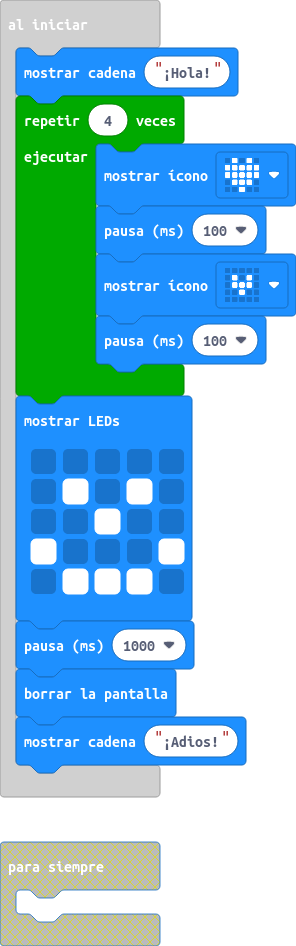
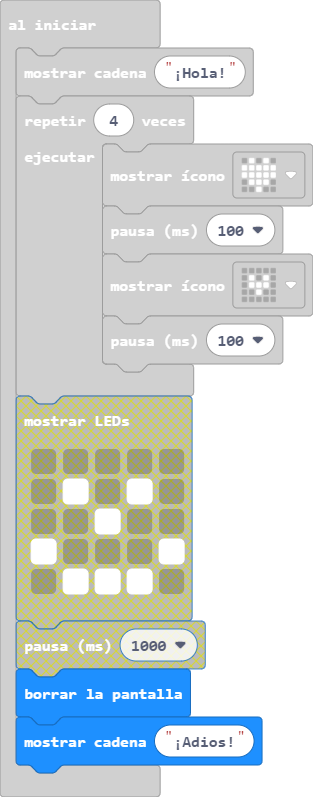
Actualizar main.blocks, main.ts

diff --git a/main.ts b/main.ts
@@ -5,13 +5,5 @@ for (let index = 0; index < 4; index++) {
     basic.showIcon(IconNames.SmallHeart)
     basic.pause(100)
 }
-basic.showLeds(`
-    . . . . .
-    . # . # .
-    . . # . .
-    # . . . #
-    . # # # .
-    `)
-basic.pause(1000)
 basic.clearScreen()
 basic.showString("¡Adios!")
